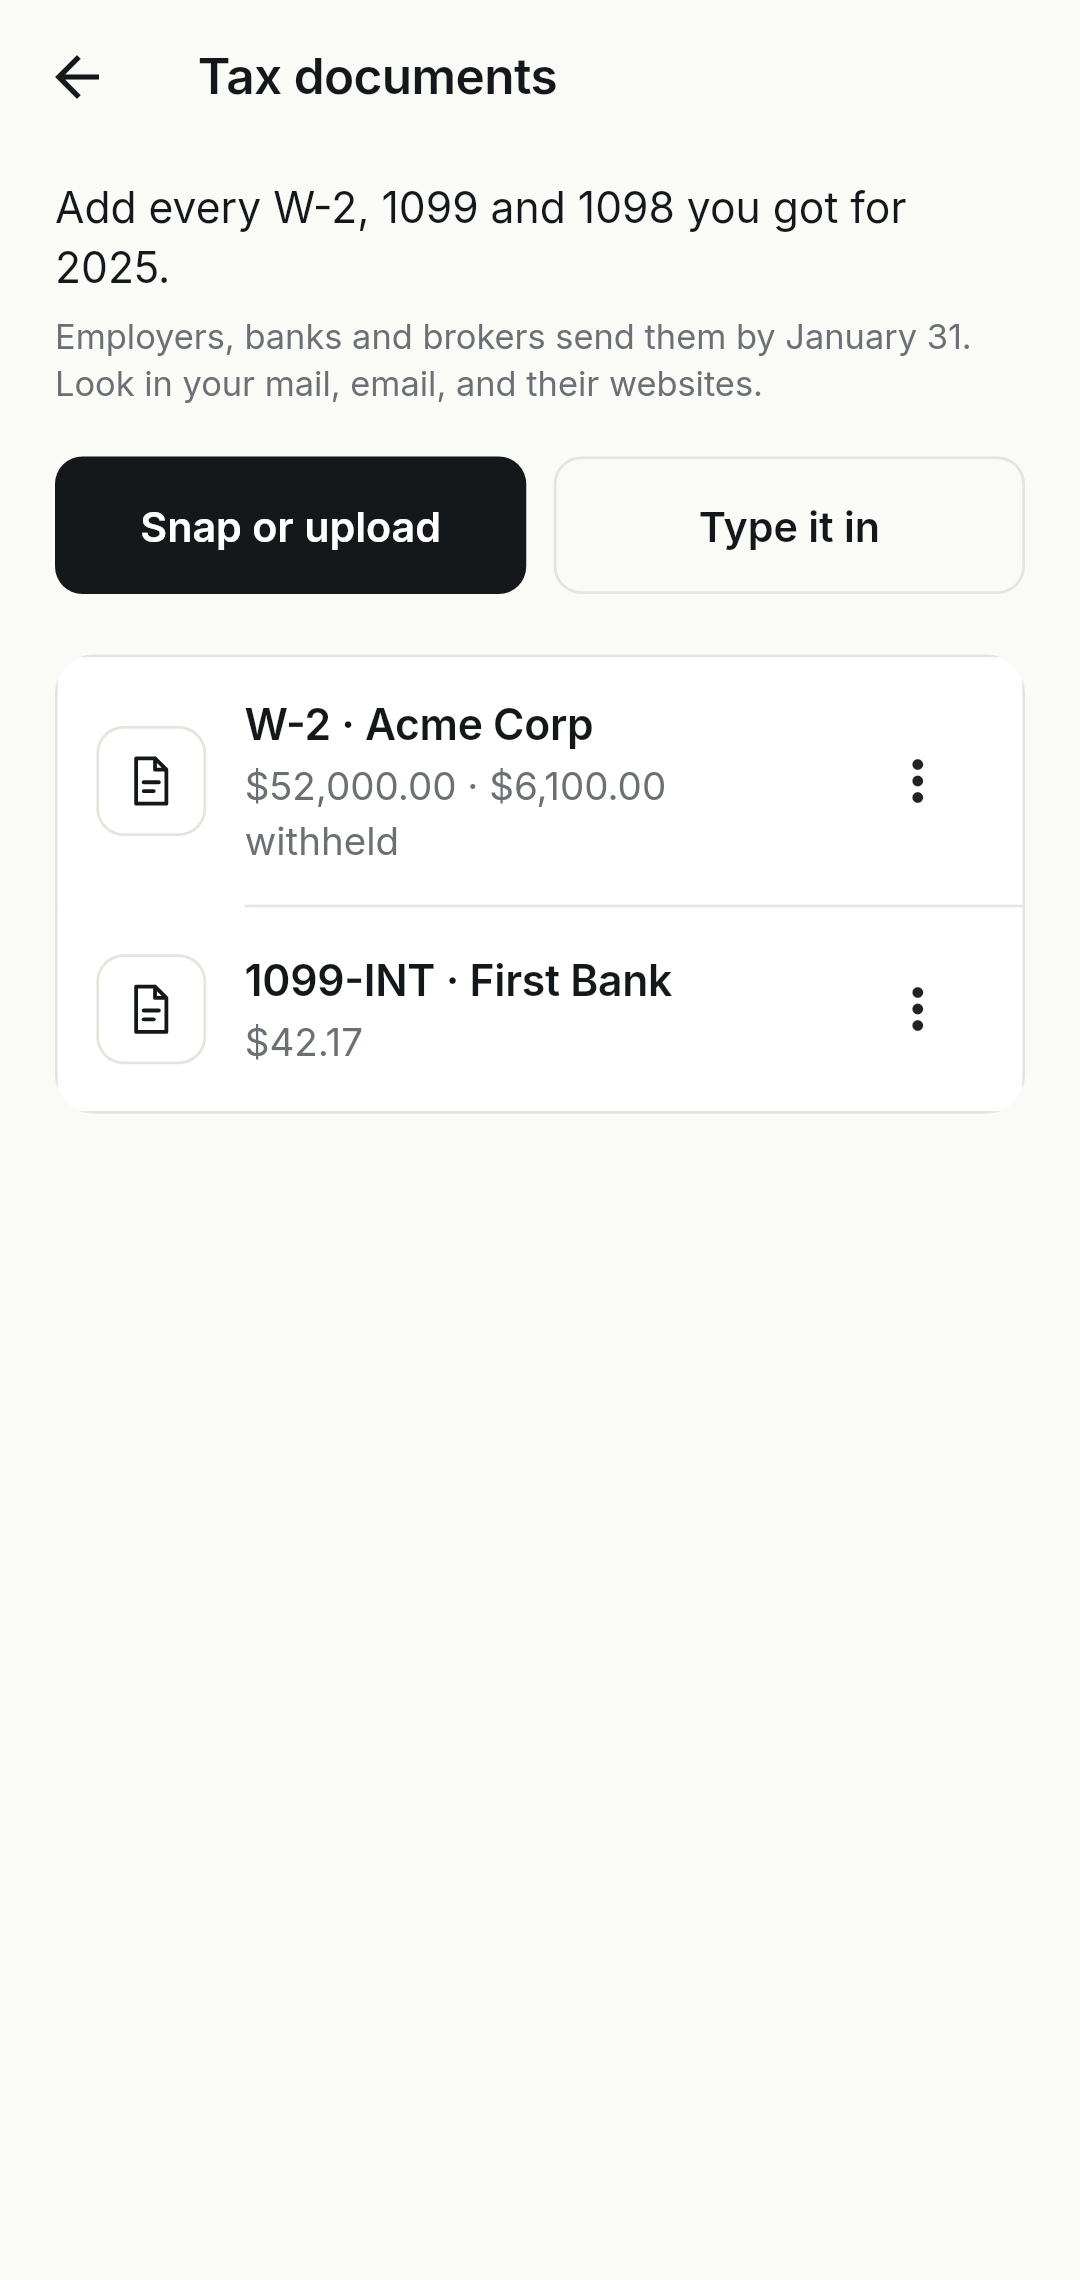
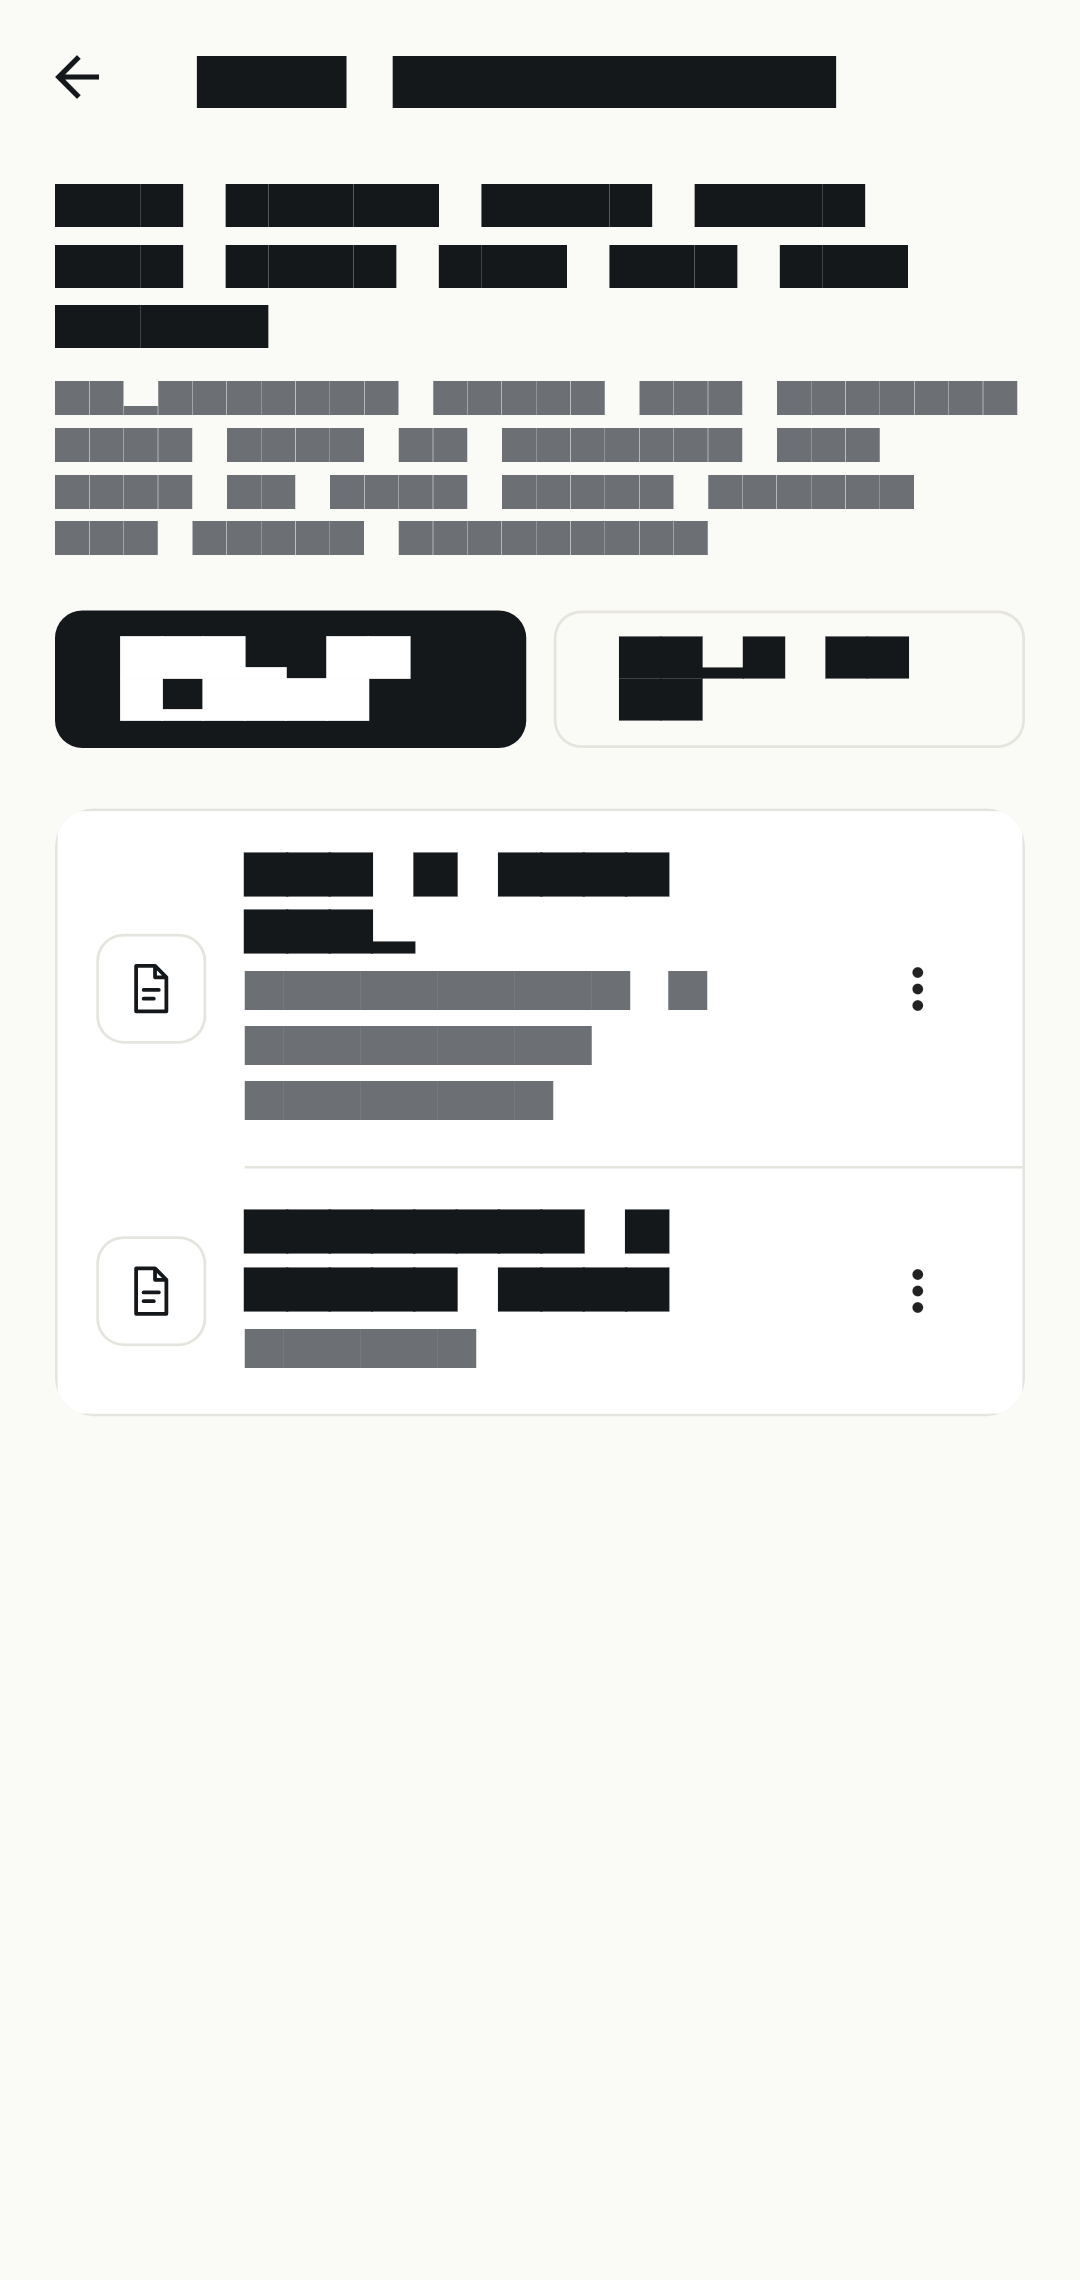
US app uses the universal design system: navy US theme and shared formatting
- mobile depends on design/flutter/myca_design.
- The US edition builds its theme from MycaDesign.forFlavor('us'):
  navy #1E3A6E accent, Bahi red highlight, ink primary buttons. India
  keeps mycaTheme() unchanged.
- dollars() and usDate() now come from MycaFormat for the US
  (en_US currency and MM/dd/yyyy), replacing the hand-rolled versions.
- US screens read the accent from context.myca instead of the India
  green Palette constants.

Tests: flutter analyze clean; flutter test 621 pass; US screenshots
regenerated (now navy).

Claude-Session: https://claude.ai/code/session_0174TLetaQdj8mae1wPsVW7h

diff --git a/mobile/lib/screens/us/us_return_home_screen.dart b/mobile/lib/screens/us/us_return_home_screen.dart
@@ -1,3 +1,4 @@
+import 'package:myca_design/myca_design.dart' show MycaThemeContext;
 import 'package:flutter/material.dart';
 
 import '../../api/models.dart';
@@ -82,7 +83,7 @@ class _UsReturnHomeScreenState extends State<UsReturnHomeScreen> {
       padding: const EdgeInsets.only(bottom: 14),
       child: Row(
         children: [
-          Icon(paid ? Icons.check_circle : Icons.sell_outlined, size: 18, color: Palette.accent),
+          Icon(paid ? Icons.check_circle : Icons.sell_outlined, size: 18, color: context.myca.accent),
           const SizedBox(width: 8),
           Expanded(child: Text(paid ? 'Your ${fee.taxYear} filing is paid. One price, no upgrade fees.' : line, key: const Key('usHub.priceLine'), style: text.bodyMedium?.copyWith(color: Palette.ink))),
         ],
@@ -193,7 +194,7 @@ class _UsReturnHomeScreenState extends State<UsReturnHomeScreen> {
       padding: const EdgeInsets.all(16),
       margin: const EdgeInsets.only(bottom: 14),
       decoration: BoxDecoration(
-        color: rejected ? Palette.dangerSoft : Palette.accentSoft,
+        color: rejected ? Palette.dangerSoft : context.myca.accentSoft,
         borderRadius: BorderRadius.circular(radiusCard),
       ),
       child: Column(
@@ -252,7 +253,7 @@ class _UsReturnHomeScreenState extends State<UsReturnHomeScreen> {
           Text(label, style: text.bodyLarge?.copyWith(color: Palette.muted)),
           if (amount.isNotEmpty) ...[
             const SizedBox(height: 6),
-            Text(amount, style: text.displaySmall?.copyWith(color: status.owed > 0 ? Palette.warn : Palette.accent, fontFeatures: moneyFigures)),
+            Text(amount, style: text.displaySmall?.copyWith(color: status.owed > 0 ? Palette.warn : context.myca.accent, fontFeatures: moneyFigures)),
           ],
           const SizedBox(height: 6),
           Text('Updates as you add forms and answer questions.', style: text.bodySmall),
@@ -315,8 +316,8 @@ class _UsReturnHomeScreenState extends State<UsReturnHomeScreen> {
                           child: Row(
                             mainAxisSize: MainAxisSize.min,
                             children: [
-                              Text('$year', style: text.titleMedium?.copyWith(color: Palette.accent)),
-                              const Icon(Icons.arrow_drop_down, color: Palette.accent),
+                              Text('$year', style: text.titleMedium?.copyWith(color: context.myca.accent)),
+                              Icon(Icons.arrow_drop_down, color: context.myca.accent),
                             ],
                           ),
                         ),
@@ -349,7 +350,7 @@ class _UsReturnHomeScreenState extends State<UsReturnHomeScreen> {
                             title: title,
                             subtitle: subtitle,
                             trailing: hub.status.done(id)
-                                ? const Icon(Icons.check_circle, color: Palette.accent, semanticLabel: 'Done')
+                                ? Icon(Icons.check_circle, color: context.myca.accent, semanticLabel: 'Done')
                                 : const Chevron(),
                             onTap: () => _open(screenFor(id)),
                           ),

diff --git a/mobile/lib/format.dart b/mobile/lib/format.dart
@@ -1,4 +1,8 @@
+import 'package:myca_design/myca_design.dart' show MycaCountry, MycaDateStyle, MycaFormat;
+
 String moneyCountry = 'IN';
+
+final _us = MycaFormat(MycaCountry.of('US'));
 
 String rupees(num amount) {
   if (moneyCountry == 'US') return dollars(amount);
@@ -20,20 +24,7 @@ String rupees(num amount) {
   return '$sign₹${groups.join(',')},$lastThree$paise';
 }
 
-String dollars(num amount) {
-  final negative = amount < 0;
-  final fixed = amount.abs().toStringAsFixed(2);
-  final dot = fixed.indexOf('.');
-  var whole = fixed.substring(0, dot);
-  final cents = fixed.substring(dot);
-  final groups = <String>[];
-  while (whole.length > 3) {
-    groups.insert(0, whole.substring(whole.length - 3));
-    whole = whole.substring(0, whole.length - 3);
-  }
-  groups.insert(0, whole);
-  return '${negative ? '-' : ''}\$${groups.join(',')}$cents';
-}
+String dollars(num amount) => _us.money(amount);
 
 String isoDate(DateTime date) =>
     '${date.year.toString().padLeft(4, '0')}-${date.month.toString().padLeft(2, '0')}-${date.day.toString().padLeft(2, '0')}';
@@ -74,11 +65,7 @@ String longDate(String iso) {
   return '$day ${_months[month - 1]} ${parts[0]}';
 }
 
-String usDate(String iso) {
-  final parts = iso.split('-');
-  if (parts.length != 3 || parts.any((p) => int.tryParse(p) == null)) return iso;
-  return '${parts[1].padLeft(2, '0')}/${parts[2].padLeft(2, '0')}/${parts[0]}';
-}
+String usDate(String iso) => _us.isoDate(iso, style: MycaDateStyle.short);
 
 String? isoFromUsDate(String typed) {
   final match = RegExp(r'^(\d{1,2})/(\d{1,2})/(\d{4})$').firstMatch(typed.trim());

diff --git a/mobile/lib/screens/us/us_plus_screen.dart b/mobile/lib/screens/us/us_plus_screen.dart
@@ -1,3 +1,4 @@
+import 'package:myca_design/myca_design.dart' show MycaThemeContext;
 import 'package:flutter/material.dart';
 
 import '../../api/models.dart';
@@ -265,7 +266,7 @@ class _UsPlusScreenState extends State<UsPlusScreen> {
                         children: [
                           Expanded(child: Text(title, style: text.titleSmall)),
                           _joined.contains(id)
-                              ? Text("We'll let you know", key: Key('usWaitlist.joined.$id'), style: text.bodySmall?.copyWith(color: Palette.accent))
+                              ? Text("We'll let you know", key: Key('usWaitlist.joined.$id'), style: text.bodySmall?.copyWith(color: context.myca.accent))
                               : TextButton(key: Key('usWaitlist.$id'), onPressed: _busy ? null : () => _join(id), child: const Text('Tell me when')),
                         ],
                       ),
@@ -297,7 +298,7 @@ Widget _result(BuildContext context, Key key, List<Widget> children) => Containe
       key: key,
       margin: const EdgeInsets.only(top: 18),
       padding: const EdgeInsets.all(16),
-      decoration: BoxDecoration(color: Palette.accentSoft, borderRadius: BorderRadius.circular(radiusCard)),
+      decoration: BoxDecoration(color: context.myca.accentSoft, borderRadius: BorderRadius.circular(radiusCard)),
       child: Column(crossAxisAlignment: CrossAxisAlignment.start, children: children),
     );
 

diff --git a/mobile/lib/screens/us/us_setup_screen.dart b/mobile/lib/screens/us/us_setup_screen.dart
@@ -1,3 +1,4 @@
+import 'package:myca_design/myca_design.dart' show MycaThemeContext;
 import 'package:flutter/material.dart';
 
 import '../../api/myca_api.dart';
@@ -77,7 +78,7 @@ class _UsSetupScreenState extends State<UsSetupScreen> {
     return Container(
       decoration: BoxDecoration(
         borderRadius: BorderRadius.circular(radiusCard),
-        border: Border.all(color: picked ? Palette.accent : Palette.line, width: picked ? 2 : 1),
+        border: Border.all(color: picked ? context.myca.accent : Palette.line, width: picked ? 2 : 1),
       ),
       clipBehavior: Clip.antiAlias,
       child: RowCard(
@@ -85,7 +86,7 @@ class _UsSetupScreenState extends State<UsSetupScreen> {
         leading: TintTile(tint: picked ? Tint.taxes : Tint.ask, mark: mark),
         title: title,
         subtitle: subtitle,
-        trailing: Icon(picked ? Icons.radio_button_checked : Icons.radio_button_off, color: picked ? Palette.accent : Palette.faint),
+        trailing: Icon(picked ? Icons.radio_button_checked : Icons.radio_button_off, color: picked ? context.myca.accent : Palette.faint),
         onTap: () => setState(() {
           _goal = value;
           _error = '';

diff --git a/mobile/lib/screens/us/us_review_screen.dart b/mobile/lib/screens/us/us_review_screen.dart
@@ -1,3 +1,4 @@
+import 'package:myca_design/myca_design.dart' show MycaThemeContext;
 import 'dart:convert';
 
 import 'package:flutter/material.dart';
@@ -101,7 +102,7 @@ class _UsReviewScreenState extends State<UsReviewScreen> {
                   key: const Key('usReview.result'),
                   padding: const EdgeInsets.all(18),
                   decoration: BoxDecoration(
-                    color: review.owed > 0 ? Palette.warnSoft : Palette.accentSoft,
+                    color: review.owed > 0 ? Palette.warnSoft : context.myca.accentSoft,
                     borderRadius: BorderRadius.circular(radiusCard),
                   ),
                   child: Column(

diff --git a/mobile/lib/us/us_filing_fee.dart b/mobile/lib/us/us_filing_fee.dart
@@ -1,3 +1,4 @@
+import 'package:myca_design/myca_design.dart' show MycaThemeContext;
 import 'package:flutter/material.dart';
 
 import '../api/myca_api.dart';
@@ -255,7 +256,7 @@ class _UsFilingFeeCardState extends State<UsFilingFeeCard> {
     return Container(
       key: const Key('usFee.card'),
       padding: const EdgeInsets.all(16),
-      decoration: BoxDecoration(color: Palette.accentSoft, borderRadius: BorderRadius.circular(radiusCard)),
+      decoration: BoxDecoration(color: context.myca.accentSoft, borderRadius: BorderRadius.circular(radiusCard)),
       child: Column(
         crossAxisAlignment: CrossAxisAlignment.stretch,
         children: [

diff --git a/mobile/lib/main.dart b/mobile/lib/main.dart
@@ -1,3 +1,4 @@
+import 'package:myca_design/myca_design.dart' show MycaDesign;
 import 'dart:ui';
 
 import 'package:app_links/app_links.dart';
@@ -160,7 +161,7 @@ class _MycaAppState extends State<MycaApp> with WidgetsBindingObserver {
         scaffoldMessengerKey: _messenger,
         title: 'MyCA',
         debugShowCheckedModeBanner: false,
-        theme: mycaTheme(),
+        theme: widget.state.edition == 'US' ? MycaDesign.forFlavor('us').light : mycaTheme(),
         builder: (context, child) => ListenableBuilder(
           listenable: widget.state,
           builder: (context, _) => Stack(

diff --git a/mobile/windows/flutter/generated_plugin_registrant.cc b/mobile/windows/flutter/generated_plugin_registrant.cc
@@ -10,6 +10,7 @@
 #include <flutter_secure_storage_windows/flutter_secure_storage_windows_plugin.h>
 #include <local_auth_windows/local_auth_plugin.h>
 #include <printing/printing_plugin.h>
+#include <rive_native/rive_native_plugin.h>
 #include <share_plus/share_plus_windows_plugin_c_api.h>
 #include <url_launcher_windows/url_launcher_windows.h>
 
@@ -22,6 +23,8 @@ void RegisterPlugins(flutter::PluginRegistry* registry) {
       registry->GetRegistrarForPlugin("LocalAuthPlugin"));
   PrintingPluginRegisterWithRegistrar(
       registry->GetRegistrarForPlugin("PrintingPlugin"));
+  RiveNativePluginRegisterWithRegistrar(
+      registry->GetRegistrarForPlugin("RiveNativePlugin"));
   SharePlusWindowsPluginCApiRegisterWithRegistrar(
       registry->GetRegistrarForPlugin("SharePlusWindowsPluginCApi"));
   UrlLauncherWindowsRegisterWithRegistrar(
